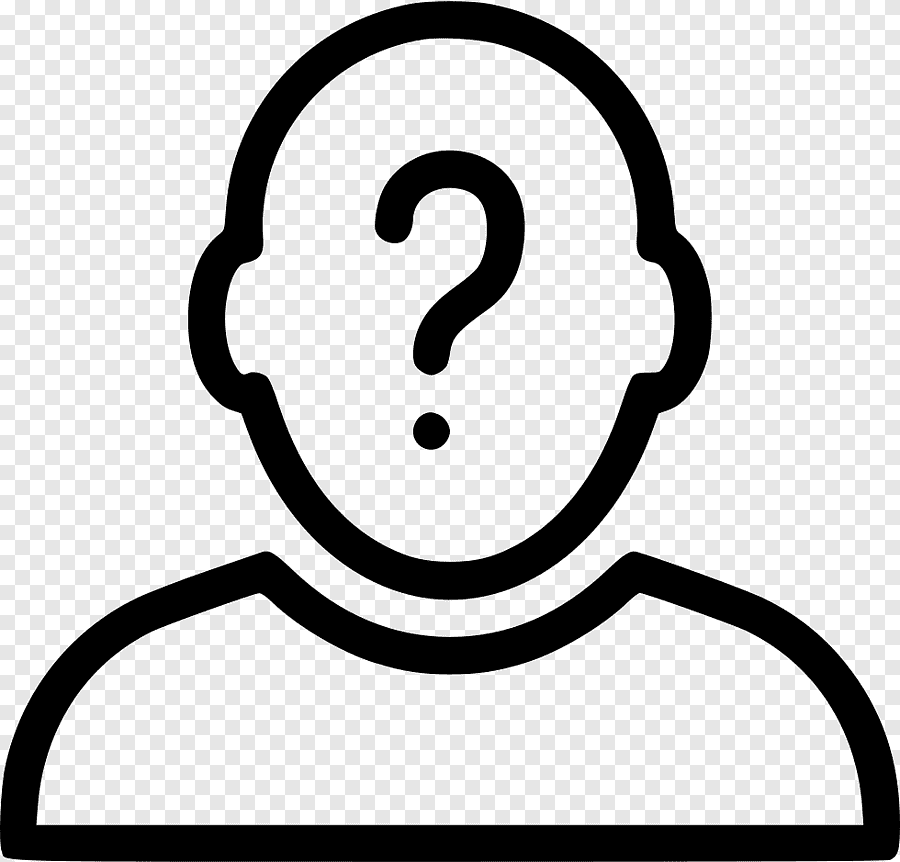
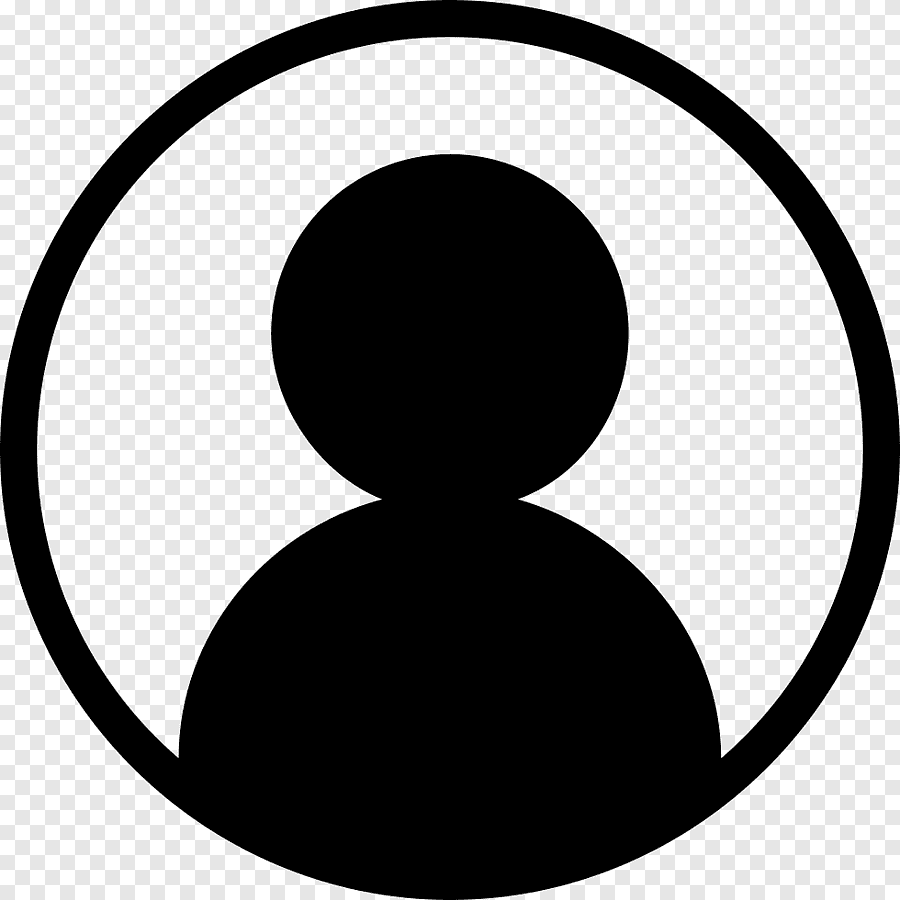
Add New Password and Confirm Password

diff --git a/account.html b/account.html
@@ -13,25 +13,44 @@
 
 <body id="Account-Page">
     <header class="account-header">
-        <a href="/">← Back to home</a>
+        <a href="/" style="text-decoration: none; color: #000000;">← Back to home</a>
     </header>
 
     <main id="account-container">
         <h1>My Account</h1>
-        <p class="account-intro">Manage your personal information.</p>
         <section>
-
             <form id="profile-form">
                 <label for="account-name">Name</label>
                 <input id="account-name" name="name" type="text" required>
 
                 <label for="account-email">Email</label>
                 <input id="account-email" type="email" readonly>
-                <p class="account-hint">Your email address can't be changed here.</p>
 
+                <fieldset>
+                    <legend>Password</legend>
+                    <label class="password-option">
+                        <input id="account-password" type="radio" name="ChangePassword" value="no" checked>
+                        <span>Keep current password</span>
+                    </label>
+                    <label class="password-option">
+                        <input id="change-password" type="radio" name="ChangePassword" value="yes">
+                        <span>Change password</span>
+                    </label>
+                </fieldset>
+                <div id="password-fields" hidden>
+                    <label for="account-current-password">Current Password</label>
+                    <input id="account-current-password" type="password" autocomplete="current-password">
+
+                    <label for="account-new-password">New Password</label>
+                    <input id="account-new-password" type="password" autocomplete="new-password" minlength="8">
+
+                    <label for="account-confirm-password">Confirm New Password</label>
+                    <input id="account-confirm-password" type="password" autocomplete="new-password" minlength="8">
+                </div>
                 <button type="submit">Save changes</button>
             </form>
         </section>
+
     </main>
 </body>
 

diff --git a/style.css b/style.css
@@ -933,7 +933,7 @@ form[id="signup-form"] button[type="submit"] {
     font-weight: 600;
 }
 
-#profile-form input {
+#profile-form input:not([type="radio"]) {
     box-sizing: border-box;
     width: 100%;
     min-height: 48px;
@@ -945,6 +945,49 @@ form[id="signup-form"] button[type="submit"] {
     font-family: inherit;
     font-size: 16px;
 }
+
+#profile-form fieldset {
+    margin: 18px 0;
+    padding: 16px;
+    border: 1px solid #cbd9eb;
+    border-radius: 10px;
+}
+
+#profile-form legend {
+
+    background: transparent;
+    color: #243247;
+    font-size: 14px;
+    font-weight: 600;
+    margin-left: -23px;
+    padding: 0 6px;
+
+}
+
+#profile-form span {
+    color: #243247;
+    font-size: 14px;
+    font-weight: 600;
+    font-family: "IBM Plex Sans Thai", sans-serif;
+    margin-right: 8px;
+}
+
+#profile-form .password-option {
+    display: inline-flex;
+    align-items: center;
+    gap: 6px;
+}
+
+
+
+#profile-form input[type="radio"] {
+    width: 18px;
+    height: 18px;
+    margin: 0;
+    accent-color: #2563eb;
+    cursor: pointer;
+}
+
 
 #profile-form #account-name {
     margin-bottom: 18px;
@@ -963,6 +1006,7 @@ form[id="signup-form"] button[type="submit"] {
 }
 
 #profile-form button {
+    margin-top: 15px;
     align-self: flex-start;
     min-height: 48px;
     padding: 12px 24px;

diff --git a/account.ts b/account.ts
@@ -53,5 +53,20 @@ profileForm?.addEventListener("submit", async (event) => {
         alert("Unable to connect to the server");
     }
 
+});
 
+const passwordFields = document.querySelector<HTMLDivElement>("#password-fields");
+
+const passwordOption = document.querySelectorAll<HTMLInputElement>("input[name='ChangePassword']");
+
+passwordOption.forEach(option => {
+    
+    option.addEventListener("change", () => {
+        if (!passwordFields) { return; }
+        if (option.value === "yes") {
+            passwordFields.hidden = false; // Show
+        } else {
+            passwordFields.hidden = true;  // Hide
+        }
+    });
 });

diff --git a/dir/account.js b/dir/account.js
@@ -46,3 +46,18 @@ profileForm?.addEventListener("submit", async (event) => {
         alert("Unable to connect to the server");
     }
 });
+const passwordFields = document.querySelector("#password-fields");
+const passwordOption = document.querySelectorAll("input[name='ChangePassword']");
+passwordOption.forEach(option => {
+    option.addEventListener("change", () => {
+        if (!passwordFields) {
+            return;
+        }
+        if (option.value === "yes") {
+            passwordFields.hidden = false; // Show
+        }
+        else {
+            passwordFields.hidden = true; // Hide
+        }
+    });
+});
